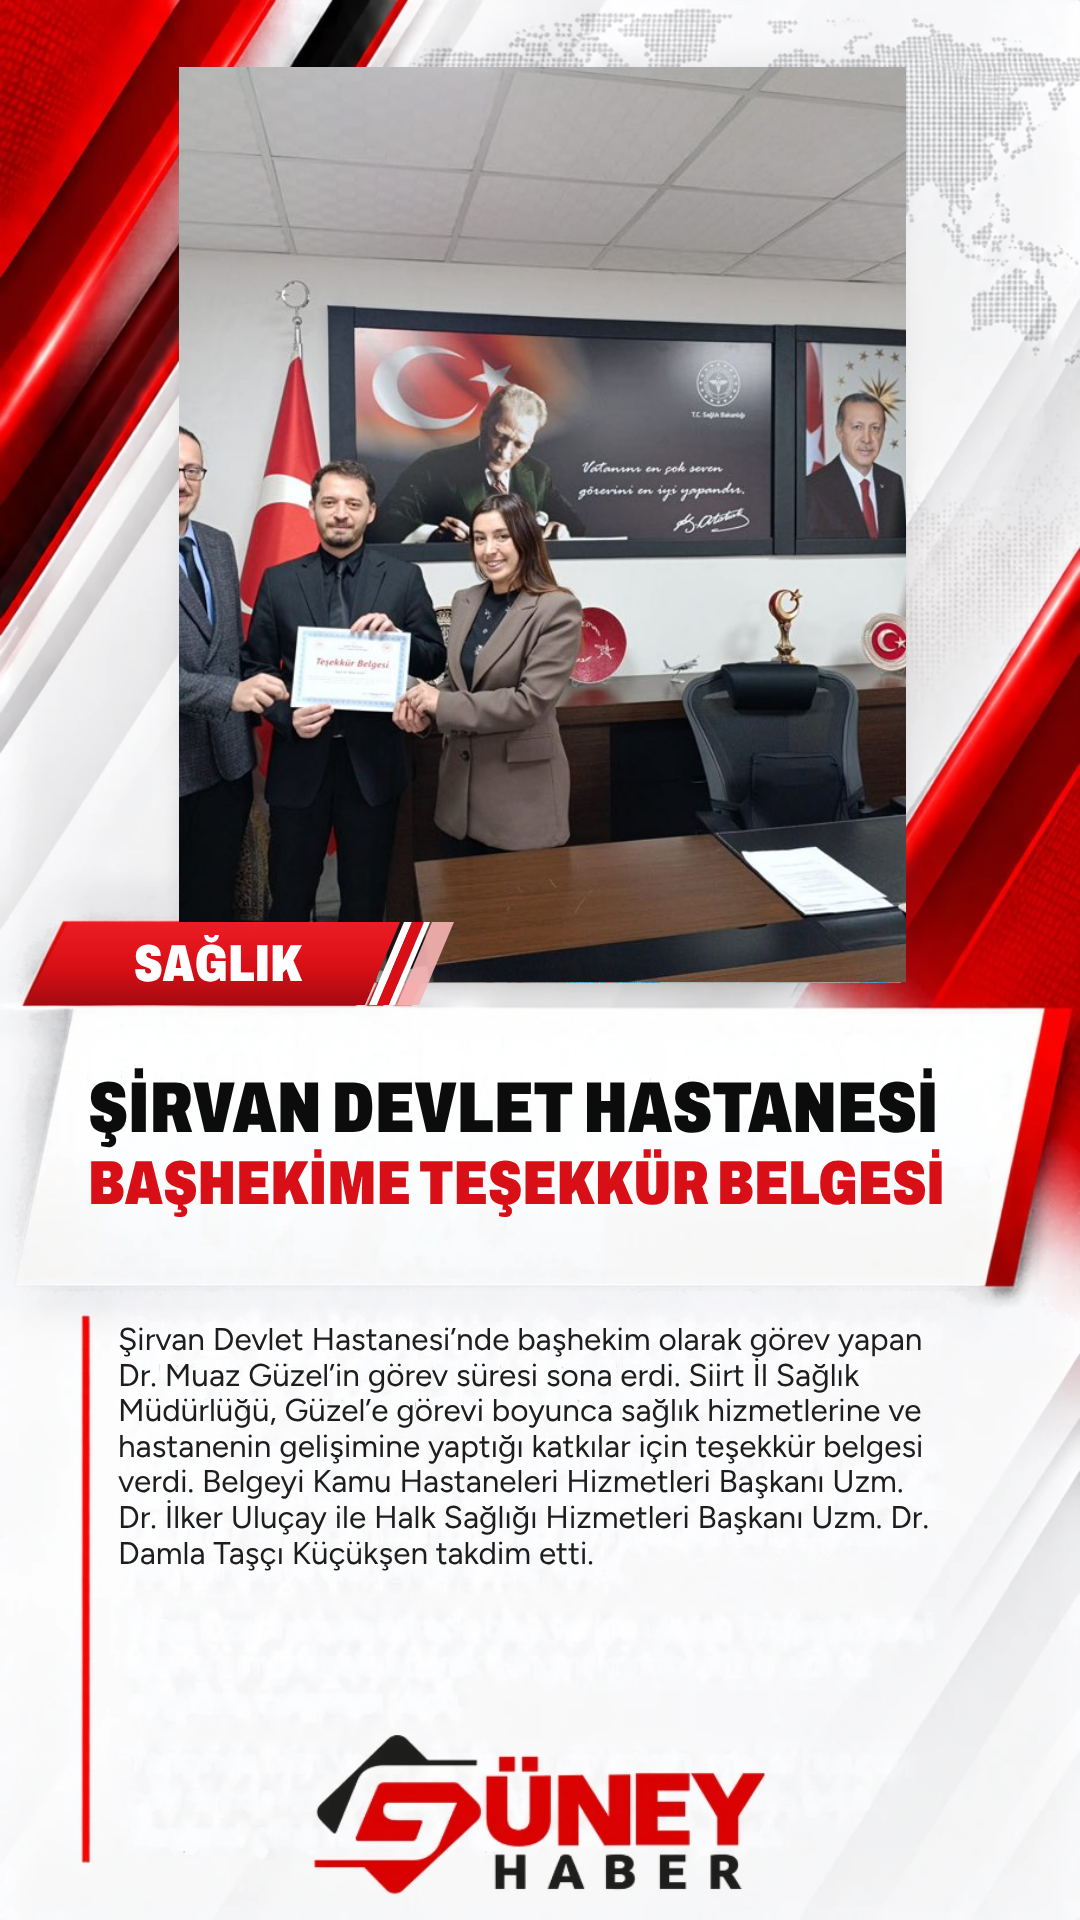
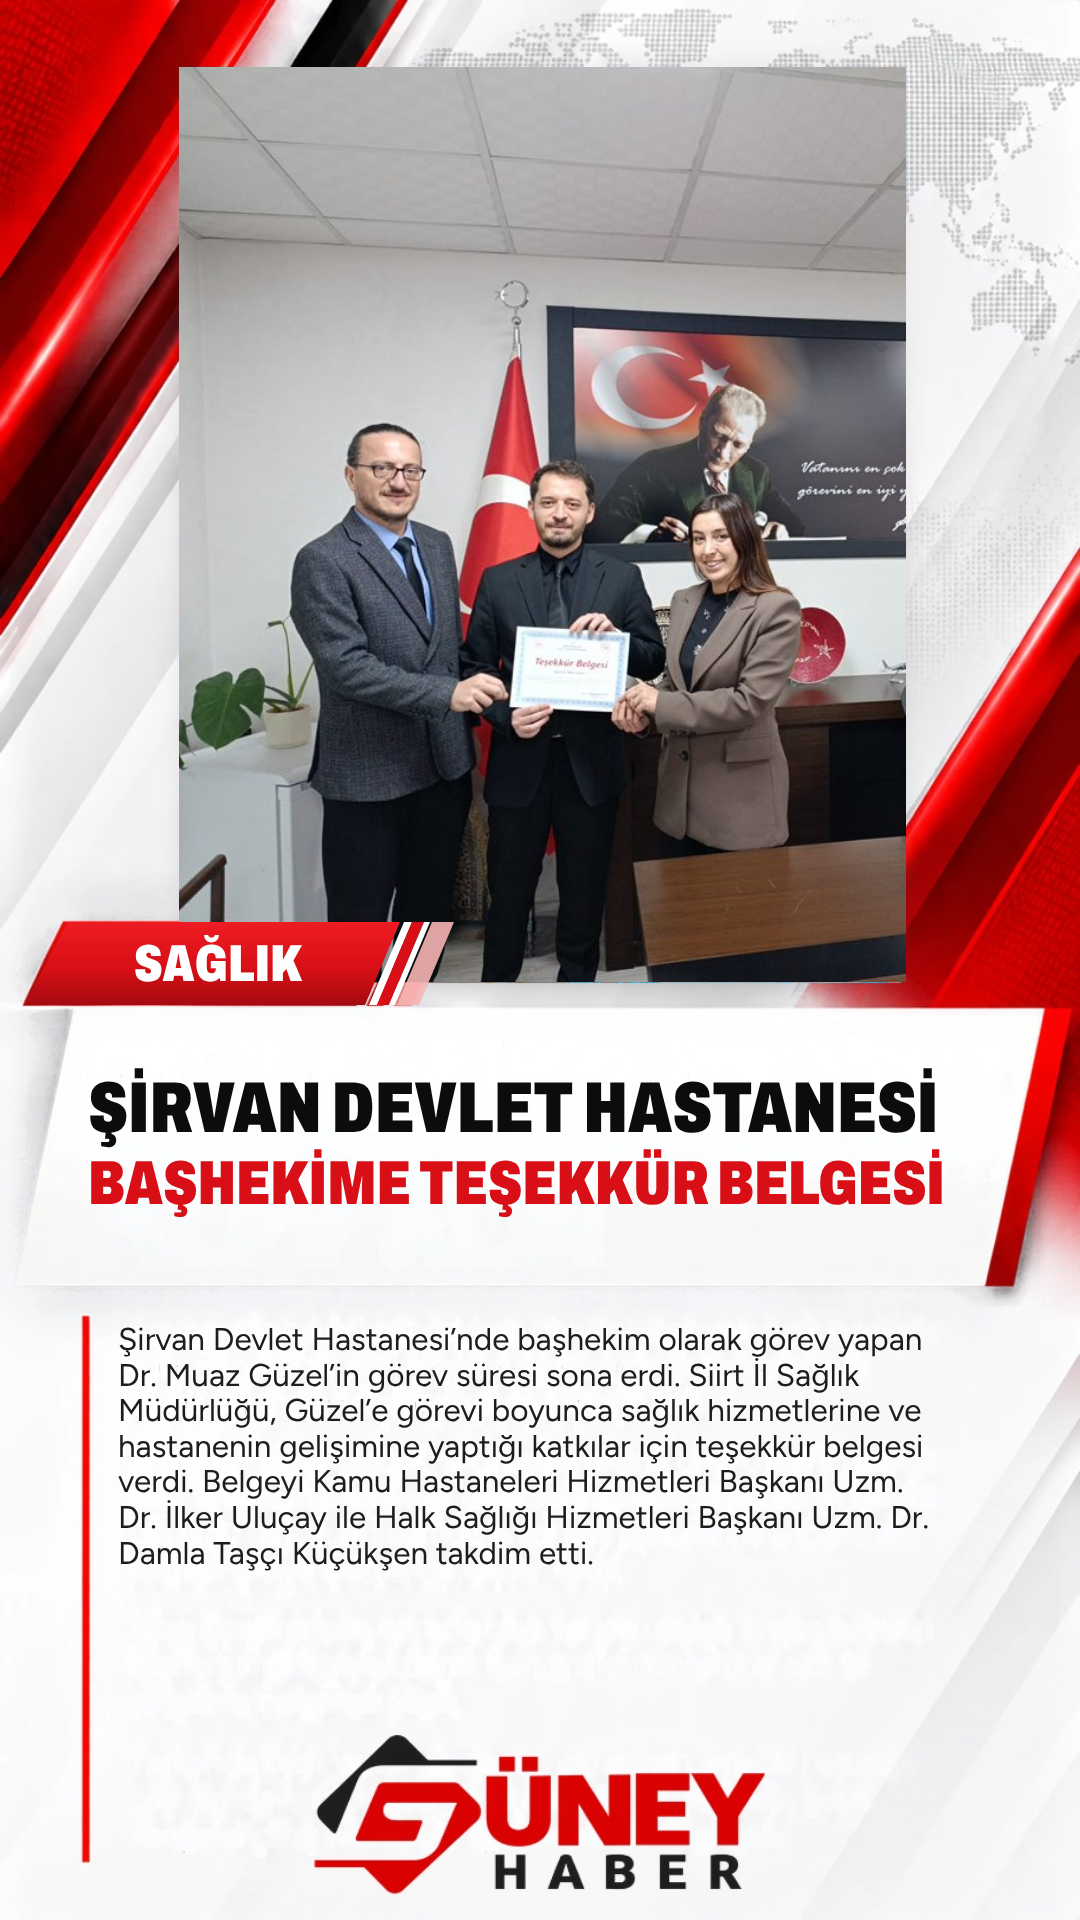
Story 11: fotoğraf kadrajı üç kişiyi tam gösterecek şekilde ayarlandı
Claude-Session: https://claude.ai/code/session_01RBFCG4rNafK44yNVHCR9mp

diff --git a/cards.js b/cards.js
@@ -74,7 +74,7 @@ const CARDS=[
 {cat:'EĞİTİM',pos:'40% 50%',credit:'',photo:'2026-11-25/foto/10.jpg',
  lines:['MİNİK ÖĞRENCİLER','112 ACİL ÇAĞRI MERKEZİ’NDE'],
  body:'Siirt 112 Acil Çağrı Merkezi, tanıtım faaliyetleri kapsamında Final Okulları’nın minik öğrencilerini ağırladı. Öğrencilere merkezin çalışmaları tanıtıldı. 112 Acil Çağrı Merkezleri; sağlık, emniyet, jandarma, itfaiye ve AFAD gibi acil hizmetlere tek numaradan ulaşılmasını sağlıyor.'},
-{cat:'SAĞLIK',pos:'50% 50%',credit:'',photo:'2026-11-25/foto/11.jpg',
+{cat:'SAĞLIK',pos:'5% 50%',credit:'',photo:'2026-11-25/foto/11.jpg',
  lines:['ŞİRVAN DEVLET HASTANESİ','BAŞHEKİME TEŞEKKÜR BELGESİ'],
  body:'Şirvan Devlet Hastanesi’nde başhekim olarak görev yapan Dr. Muaz Güzel’in görev süresi sona erdi. Siirt İl Sağlık Müdürlüğü, Güzel’e görevi boyunca sağlık hizmetlerine ve hastanenin gelişimine yaptığı katkılar için teşekkür belgesi verdi. Belgeyi Kamu Hastaneleri Hizmetleri Başkanı Uzm. Dr. İlker Uluçay ile Halk Sağlığı Hizmetleri Başkanı Uzm. Dr. Damla Taşçı Küçükşen takdim etti.'},
 {cat:'SAĞLIK',pos:'35% 50%',credit:'',photo:'2026-11-25/foto/12.jpg',
